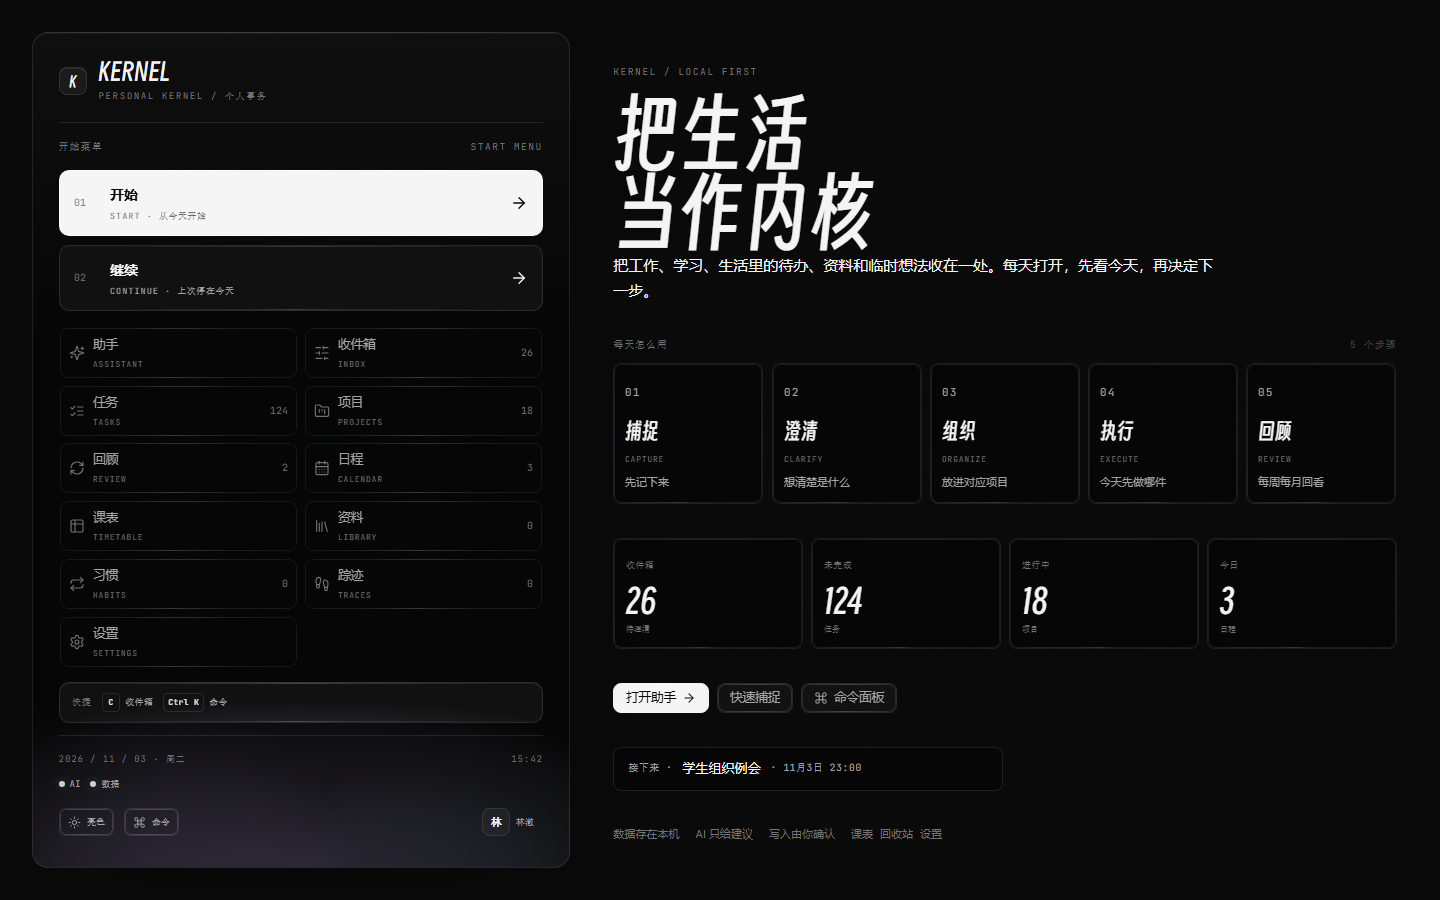
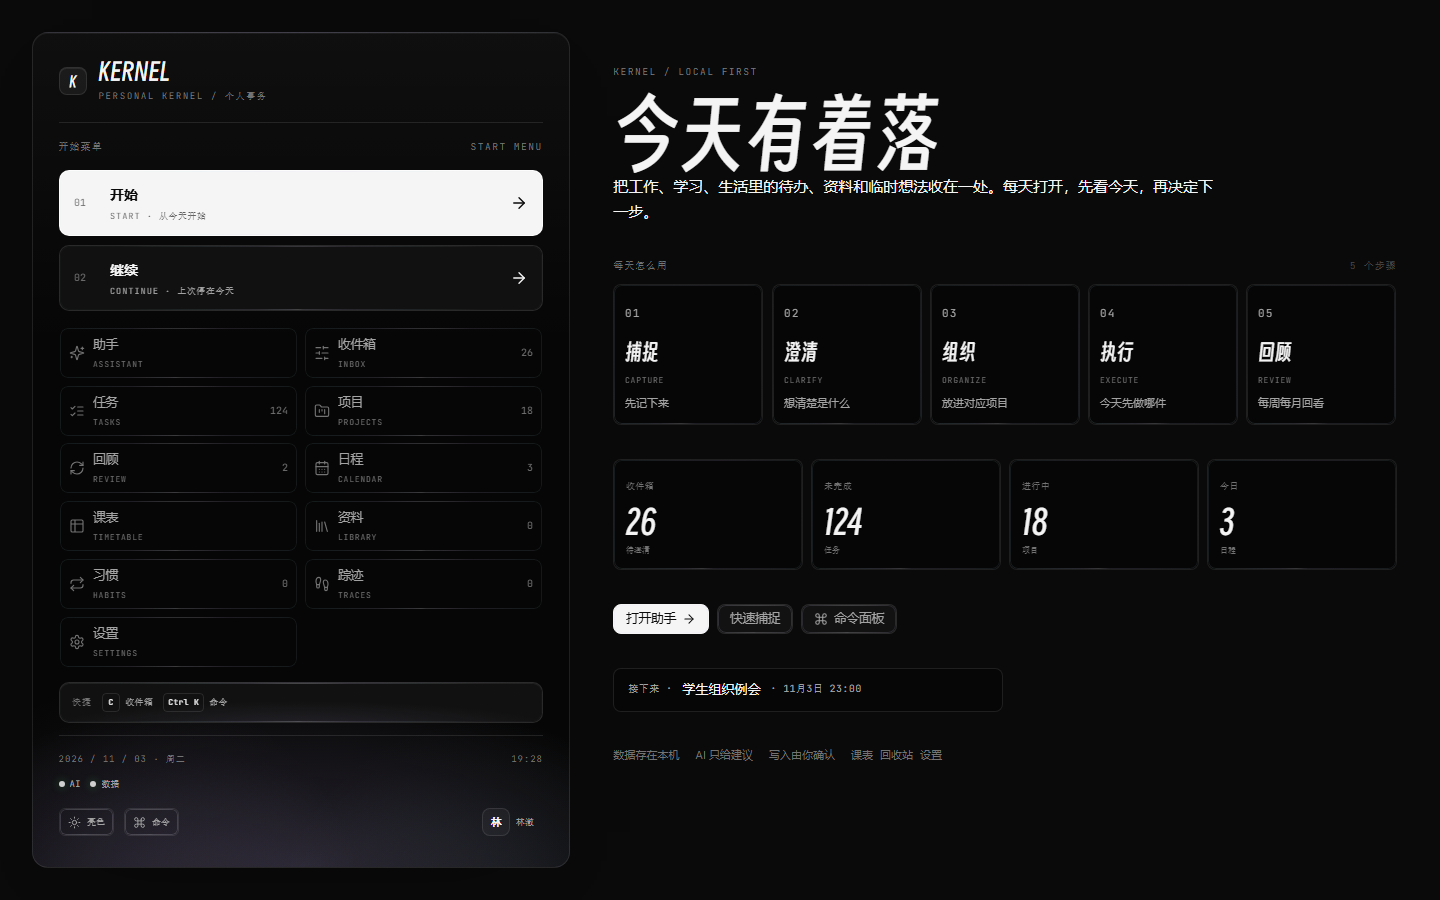
copy: v1.0.1 —— 标语改为「今天有着落」
- 应用开始菜单与介绍站 H1 去繁化简，替换「把生活 / 当作内核」
- 重拍 start.png；收尾 CTA 改为「先下载，用几天再决定」
- 版本串与安装包 1.0.1

diff --git a/site/index.html b/site/index.html
@@ -11,7 +11,7 @@
   <meta property="og:description" content="课表、任务、日程、项目、笔记、资料、习惯、踪迹和回顾，都收在一个地方。数据是你自己电脑上的文件，AI 只给建议，写入由你确认。">
   <meta property="og:type" content="website">
   <meta property="og:image" content="./assets/start.png">
-  <meta property="og:image:alt" content="KERNEL 开始菜单：左侧页面入口，右侧「把生活当作内核」与每天怎么用的五个步骤">
+  <meta property="og:image:alt" content="KERNEL 开始菜单：左侧页面入口，右侧是产品说明、每天怎么用的五个步骤与真实计数">
   <meta property="og:locale" content="zh_CN">
   <meta property="og:site_name" content="KERNEL">
   <meta name="twitter:card" content="summary_large_image">
@@ -77,7 +77,7 @@
       <div class="shell">
         <div class="hero__inner">
           <p class="eyebrow eyebrow--hero"><span class="live-dot" aria-hidden="true"></span>KERNEL / LOCAL FIRST</p>
-          <h1 class="hero__title" id="hero-title">把生活<br><em>当作内核</em></h1>
+          <h1 class="hero__title" id="hero-title">今天<em>有着落</em></h1>
           <p class="hero__sub">课表、任务、日程、项目、笔记、资料、习惯、踪迹和回顾，都收在一个地方。数据是你自己电脑上的文件，AI 只给建议，写入由你确认。</p>
           <div class="hero__cta">
             <a class="btn btn--primary btn--lg" href="https://github.com/plmt3742/kernel/releases" target="_blank" rel="noopener noreferrer">
@@ -99,7 +99,7 @@
               <span class="app-window__badge mono">LOCAL</span>
             </div>
             <div class="app-window__body" data-parallax>
-              <img src="./assets/start.png" width="1440" height="900" alt="KERNEL 开始菜单界面：左侧是页面入口，右侧写着「把生活当作内核」，并列出每天怎么用的五个步骤" fetchpriority="high" decoding="async">
+              <img src="./assets/start.png" width="1440" height="900" alt="KERNEL 开始菜单界面：左侧是页面入口，右侧是产品说明、每天怎么用的五个步骤与真实计数" fetchpriority="high" decoding="async">
             </div>
           </figure>
         </div>
@@ -521,7 +521,7 @@
       <div class="shell cta__inner" data-reveal>
         <p class="eyebrow">GET STARTED</p>
         <h2 class="cta__title display" id="cta-title">把事情收回来</h2>
-        <p class="cta__sub">先下载，再决定要不要把生活交给它。</p>
+        <p class="cta__sub">先下载，用几天再决定。</p>
         <div class="cta__actions">
           <a class="btn btn--primary btn--lg" href="https://github.com/plmt3742/kernel/releases" target="_blank" rel="noopener noreferrer">下载 Windows 版</a>
           <a class="btn btn--ghost btn--lg" href="#loop">看看它怎么用</a>

diff --git a/src/views/StartPage.tsx b/src/views/StartPage.tsx
@@ -197,11 +197,7 @@ export function StartPage() {
       <section className="gh-launch__info">
         <header className="gh-launch__intro">
           <p className="gh-launch__kicker">KERNEL / LOCAL FIRST</p>
-          <h1>
-            把生活
-            <br />
-            当作内核
-          </h1>
+          <h1>今天有着落</h1>
           <p>
             把工作、学习、生活里的待办、资料和临时想法收在一处。每天打开，先看今天，再决定下一步。
           </p>

diff --git a/src/views/Settings.tsx b/src/views/Settings.tsx
@@ -836,7 +836,7 @@ export function Settings() {
               </div>
               <dl className="k-dl">
                 <dt>版本</dt>
-                <dd className="k-mono">v1.0.0</dd>
+                <dd className="k-mono">v1.0.1</dd>
                 <dt>内核隐喻</dt>
                 <dd>进程 = 任务/项目 · 内存 = 资料/知识 · I/O = 收件箱 · 调度器 = 日程 · 检索 = 命令面板 · GC = 回顾</dd>
                 <dt>数据版本</dt>

diff --git a/public/guide.html b/public/guide.html
@@ -1362,7 +1362,7 @@ body.demo-locked { overflow: hidden; }
 
 <!-- ===================== 页脚 ===================== -->
 <footer class="foot">
-  <p class="mono">KERNEL v1.0.0 · 2026-11-03 · 数据与界面均为本地运行</p>
+  <p class="mono">KERNEL v1.0.1 · 2026-11-03 · 数据与界面均为本地运行</p>
 </footer>
 
 <!-- ===================== 任务详情面板 · 交互演示（居中弹窗） ===================== -->

diff --git a/installer/welcome.html b/installer/welcome.html
@@ -364,7 +364,7 @@ body[data-state="ready"] .btn--primary:hover {
       <span class="mark" aria-hidden="true">K</span>
       <span class="brand__text">
         <span class="brand__name" id="brandName">KERNEL</span>
-        <span class="brand__ver mono">v1.0.0</span>
+        <span class="brand__ver mono">v1.0.1</span>
       </span>
     </header>
     <p class="tagline">个人事务系统 · 本地优先</p>

diff --git a/src/components/shell/RailNav.tsx b/src/components/shell/RailNav.tsx
@@ -47,7 +47,7 @@ export function RailNav({ collapsed, onToggle, onMore }: RailNavProps) {
         </span>
         <span className="k-rail__brandtext">
           <b>KERNEL</b>
-          <span className="u-label k-muted">v1.0.0</span>
+          <span className="u-label k-muted">v1.0.1</span>
         </span>
       </div>
 

diff --git a/README.md b/README.md
@@ -4,7 +4,7 @@
 
 KERNEL 是一个本地优先的个人事务系统：课表、任务、日程、项目、笔记、资料、习惯、踪迹和回顾，都收在同一个地方。数据是你自己电脑上的 JSON 文件；AI 由本机 opencode 代理，模型请求会发往 DeepSeek（内容会出网，Key 只存本机）。
 
-> 当前发布：**v1.0.0**（本地单用户正式版，Windows 安装包见 [GitHub Releases](https://github.com/plmt3742/kernel/releases)）。
+> 当前发布：**v1.0.1**（本地单用户正式版，Windows 安装包见 [GitHub Releases](https://github.com/plmt3742/kernel/releases)）。
 
 它面向的不是某一个身份：学生、知识工作者、自由职业者、创作者，都可以把工作、学习和生活里的事务放进来。要解决的不是“再多一个待办”，而是当代年轻人常见的焦虑与失控感：事情散在聊天、文件、截图和多个 App 里，没时间记录，复杂事务又很难持续推进。KERNEL 用一条本地循环把记录、阅读、规划、执行和回顾收回到同一个地方。
 
